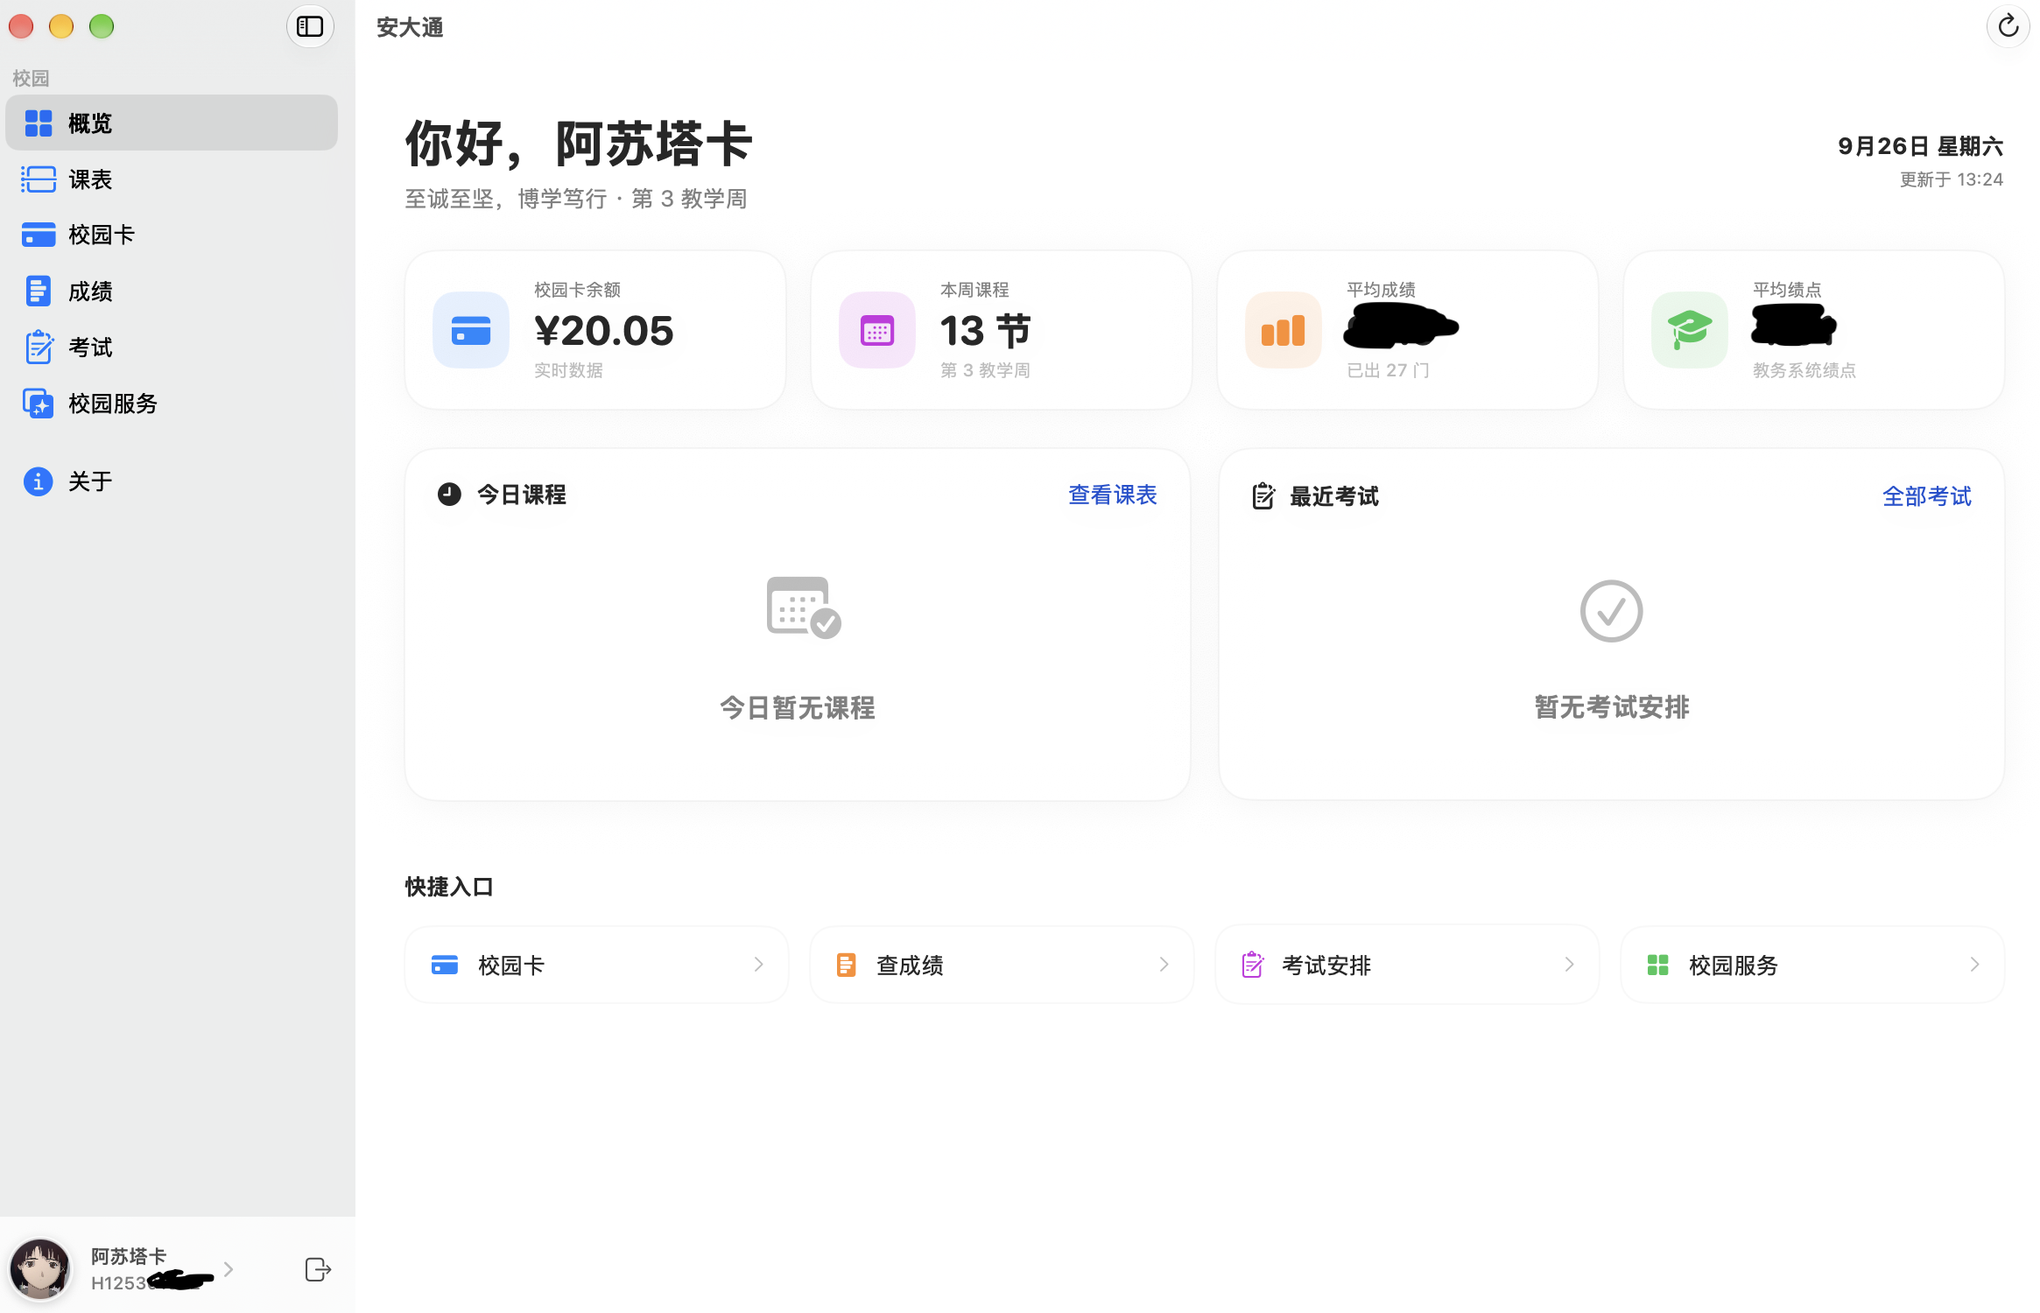
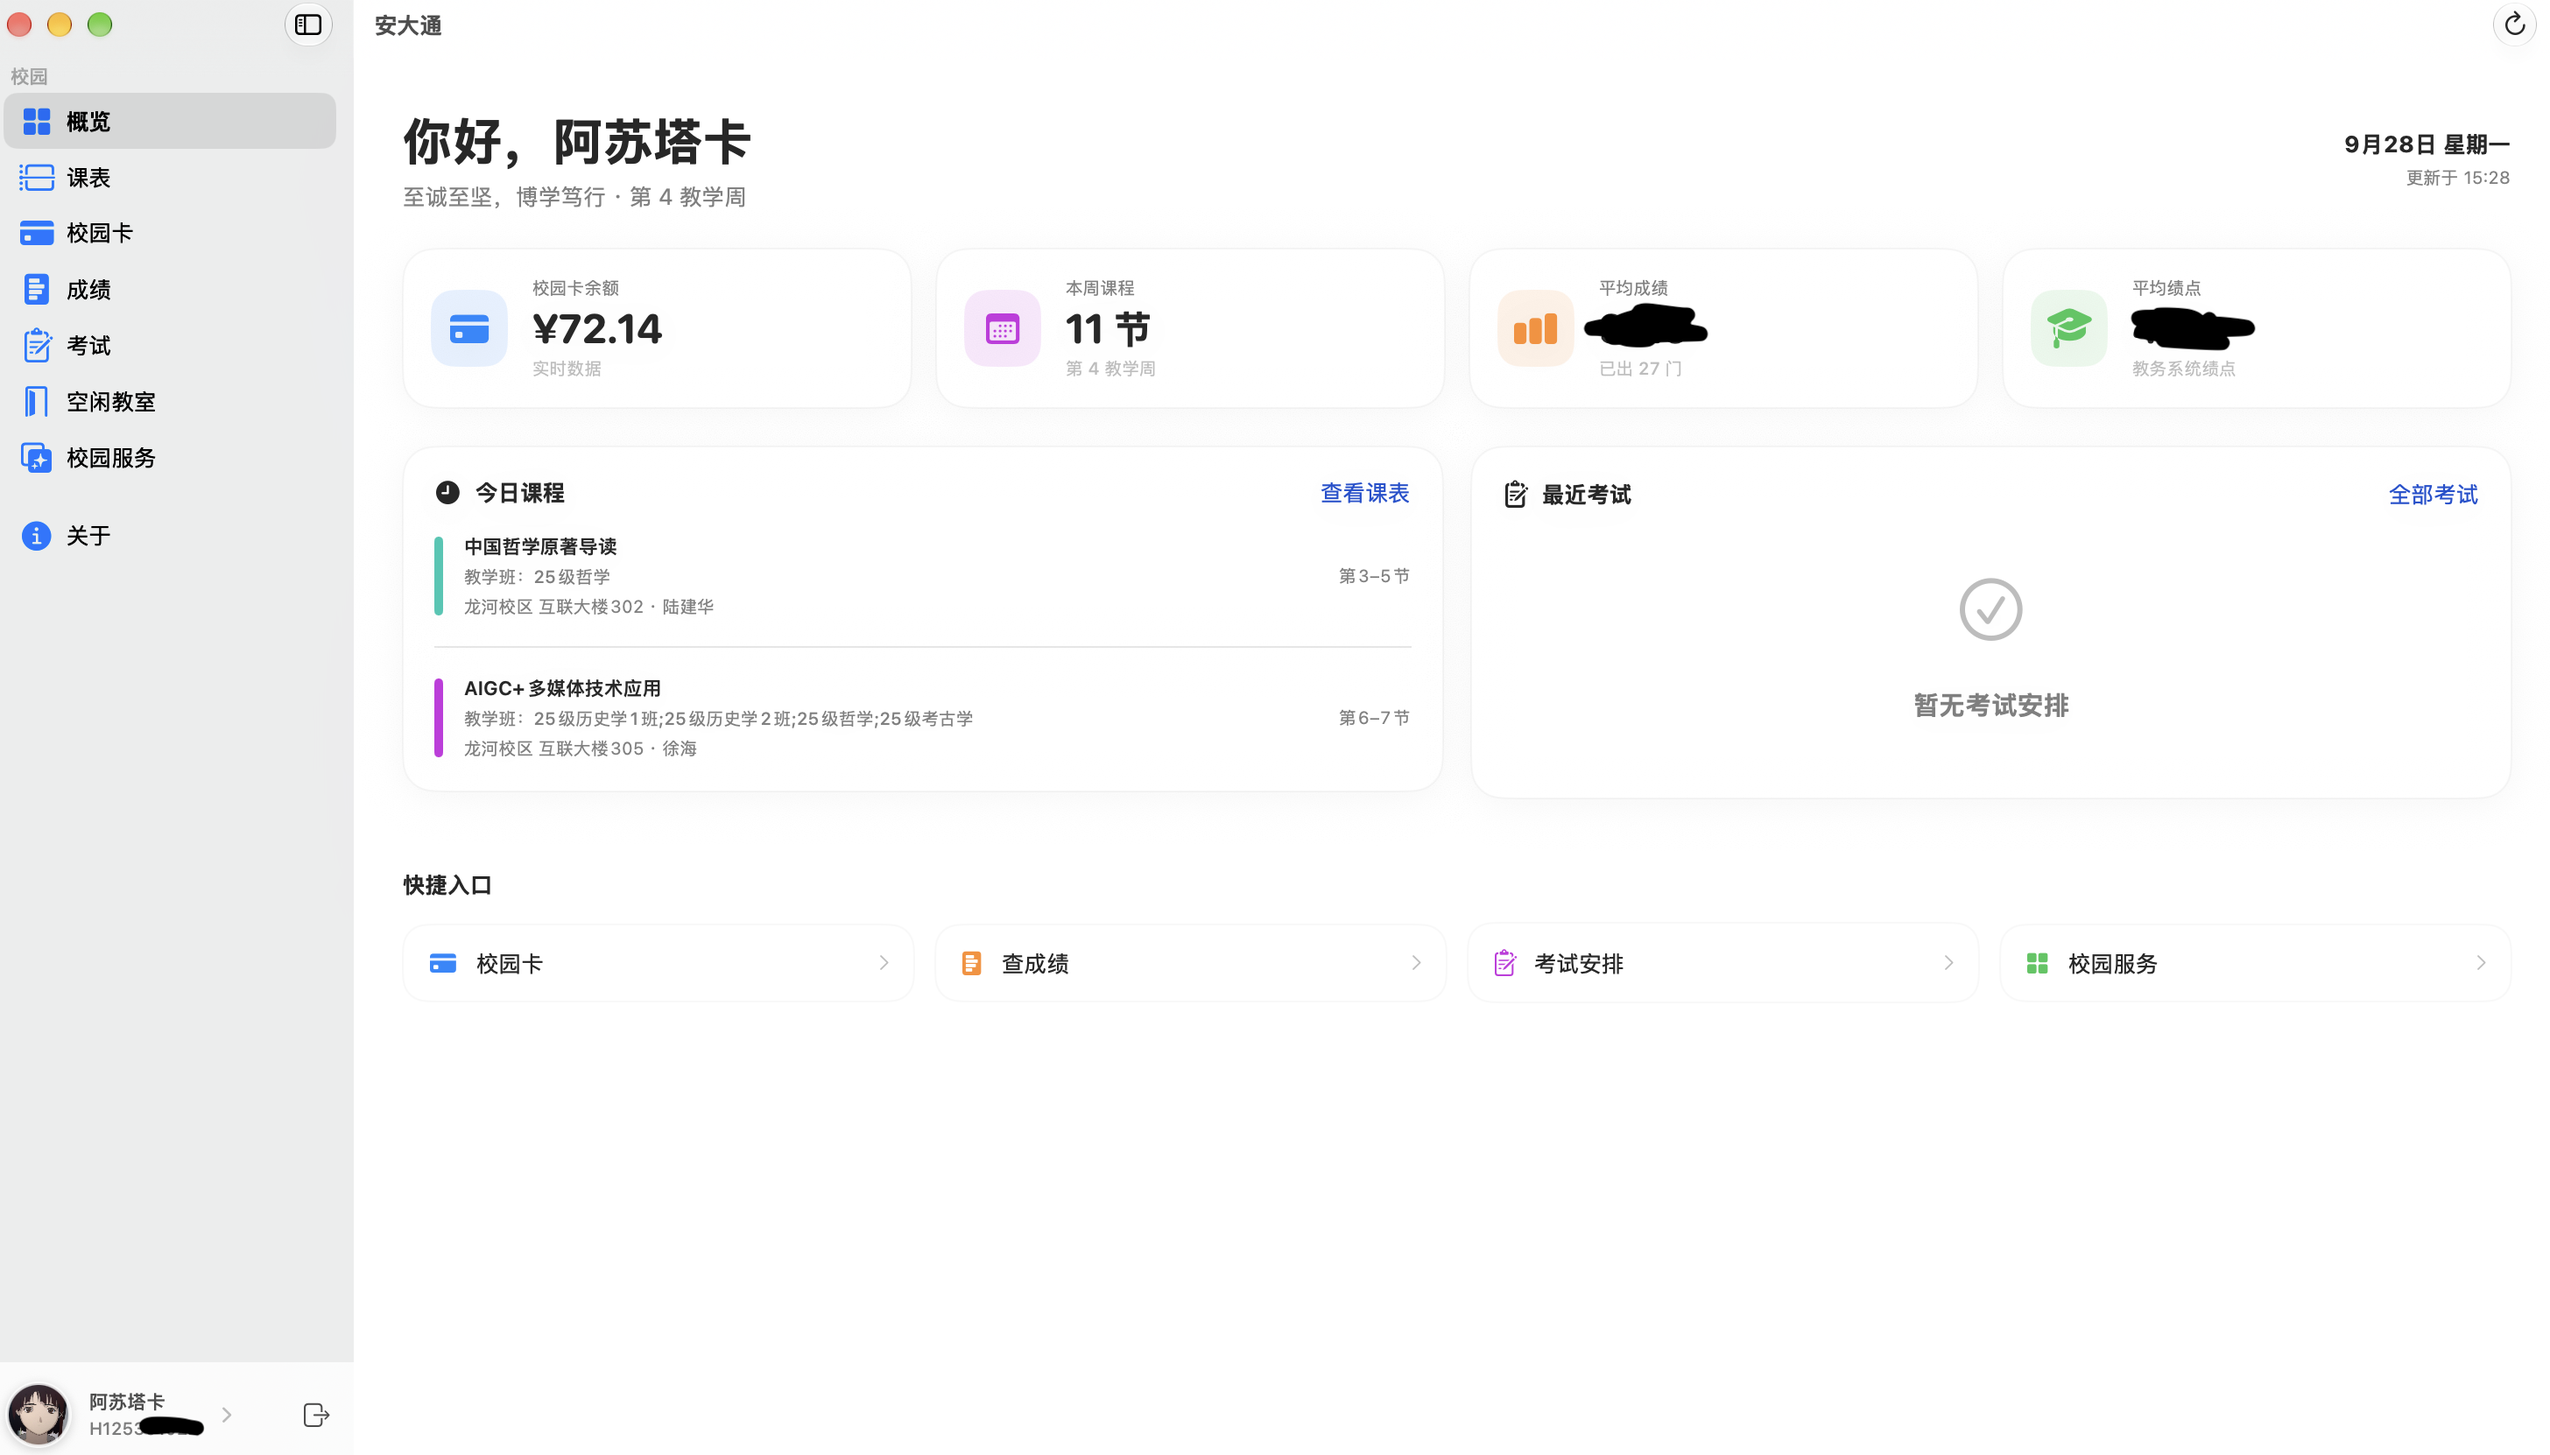
docs: 修改README截图

diff --git a/README.md b/README.md
@@ -51,7 +51,8 @@
 ![登录页](/screenshot/0.png)
 ![主页](/screenshot/1.png)
 ![课表](/screenshot/2.png)
-![关于](/screenshot/3.png)
+![空闲教室](/screenshot/3.png)
+![关于](/screenshot/4.png)
 ## 联系我们
 - [安大通2026-意见交流群](https://qm.qq.com/q/ewnp5Ya9ig)：**1006203134**
 - [安大通官网](https://openahu.org/)
